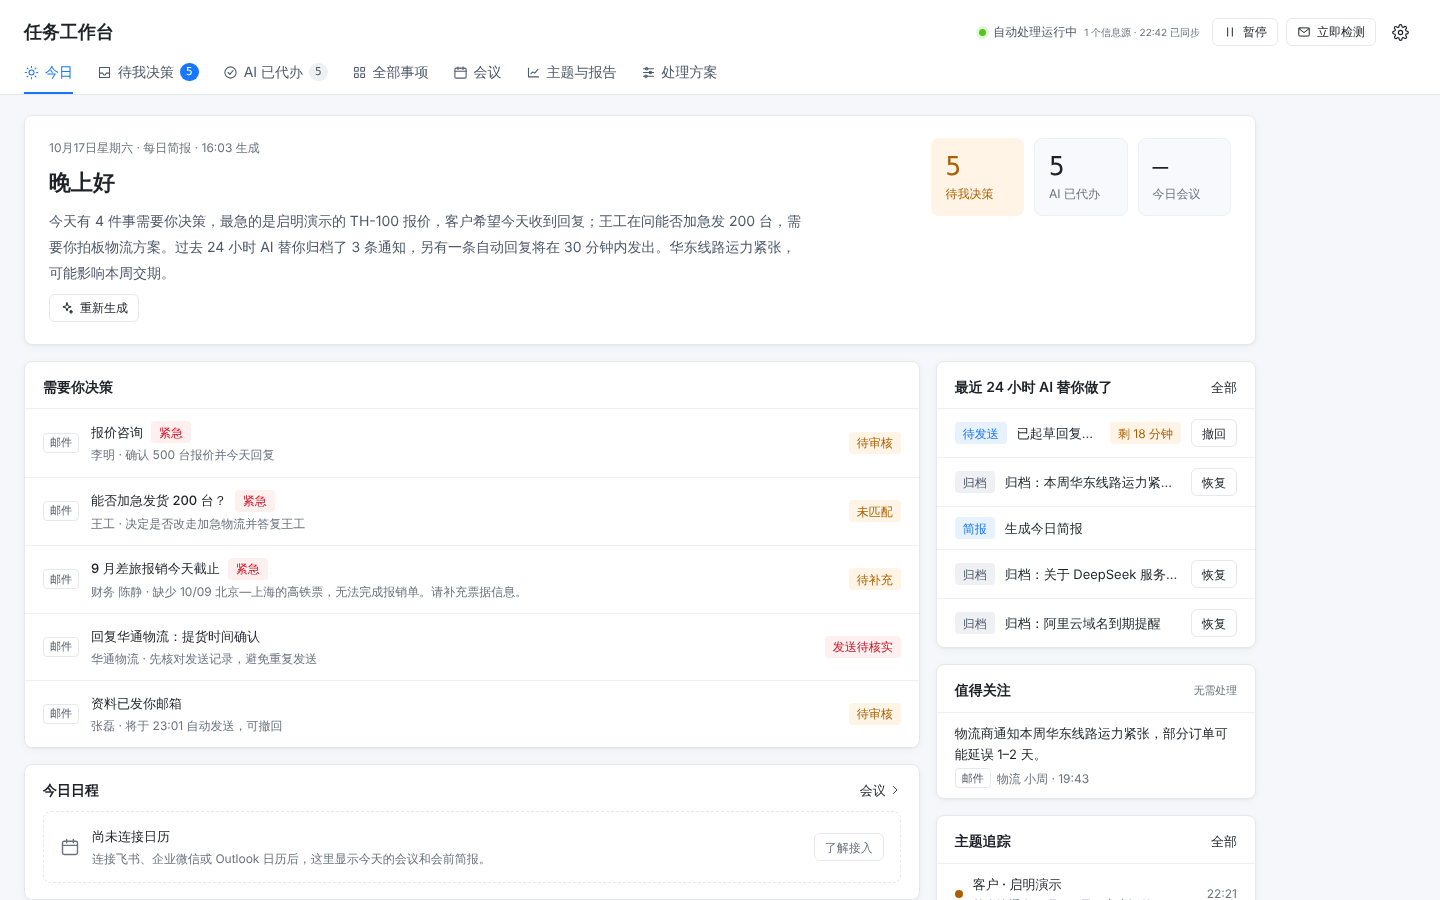
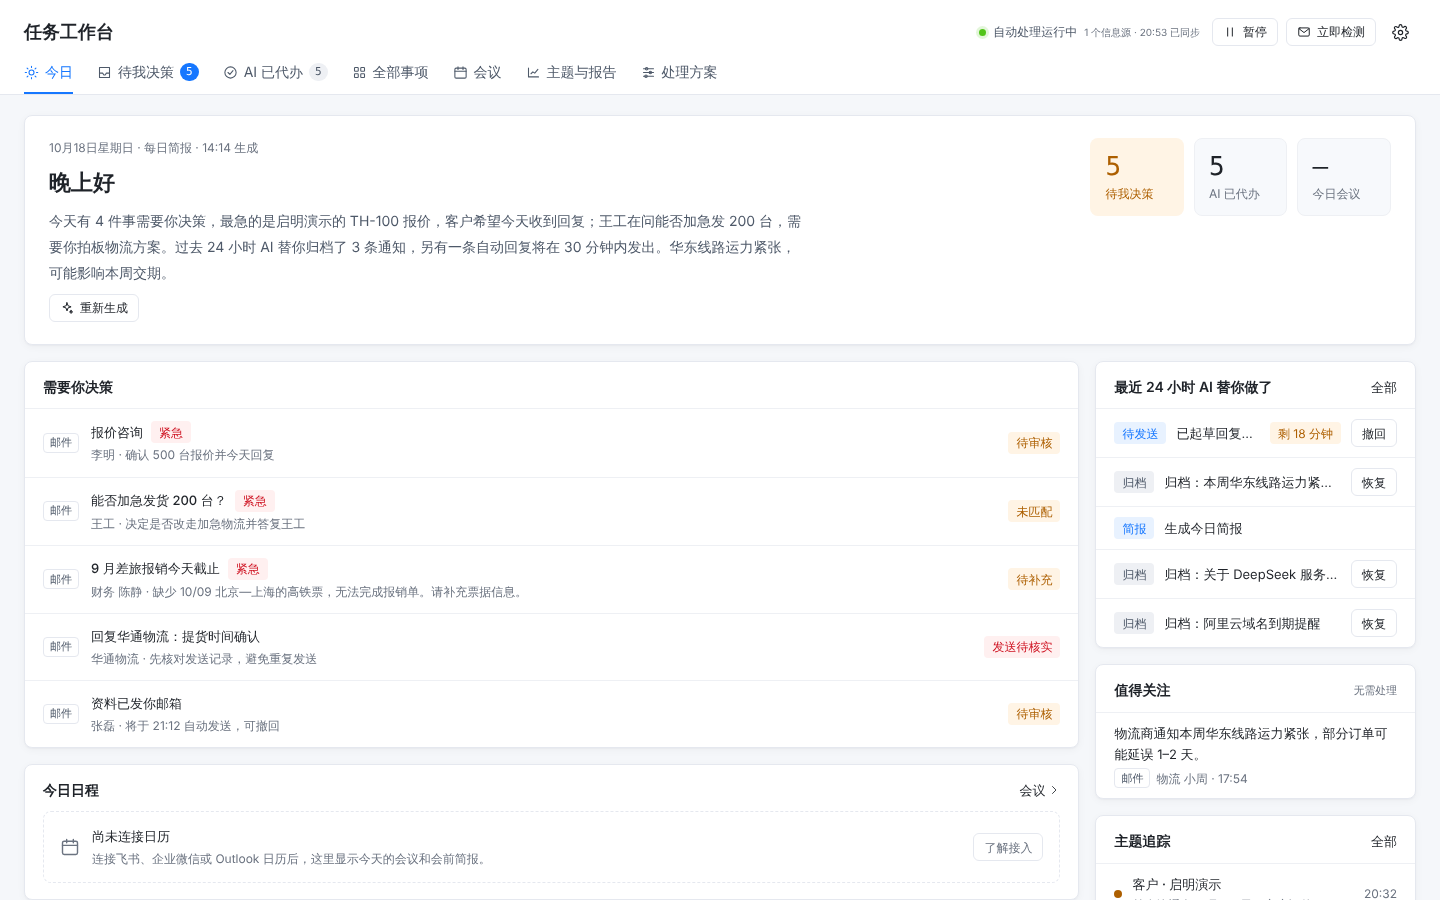
fix(ui): fill the window width and use white panes for topics and workflows
- Page content no longer stops at a fixed width on the left; it fills the
  window like the header and stays centred above 1920px.
- Topic and workflow navigation use a white surface; the workflow editor and
  its sticky footer are white instead of the grey page background.
- Refresh affected screenshots.

Claude-Session: https://claude.ai/code/session_017ze1se4mMhXQT4zLwqaEuS

diff --git a/client/styles.css b/client/styles.css
@@ -38,7 +38,7 @@ body[data-ds-dark-theme] .bkw, body[data-ds-dark-theme] .bkw-settings, body[data
 .bkw-mono { font-family: var(--mono); font-size: 12px; }
 .bkw-muted { color: var(--ink3); }
 .bkw-grow { flex: 1; }
-.bkw-pad { padding: 20px 24px 40px; max-width: 1280px; }
+.bkw-pad { padding: 20px 24px 40px; }
 
 /* Buttons */
 .bkw-btn { display: inline-flex; align-items: center; justify-content: center; gap: 6px; height: 32px; padding: 0 15px; border: 1px solid var(--line); border-radius: 6px; background: var(--surf); color: var(--ink); font-size: 13px; white-space: nowrap; text-decoration: none; transition: color .15s, border-color .15s, background .15s; }
@@ -147,7 +147,7 @@ body[data-ds-dark-theme] .bkw, body[data-ds-dark-theme] .bkw-settings, body[data
 .bkw-chip:has(input:focus-visible) { outline: 2px solid var(--acc); outline-offset: 2px; }
 
 /* Today */
-.bkw-today { display: grid; gap: 16px; padding: 20px 24px 40px; max-width: 1280px; }
+.bkw-today { display: grid; gap: 16px; padding: 20px 24px 40px; }
 .bkw-hero { display: flex; gap: 28px; align-items: flex-start; flex-wrap: wrap; padding: 22px 24px; }
 .bkw-hero-text { flex: 999 1 460px; min-width: 0; display: grid; gap: 8px; }
 .bkw-hero h2 { font-size: 22px; font-weight: 600; }
@@ -187,7 +187,7 @@ body[data-ds-dark-theme] .bkw, body[data-ds-dark-theme] .bkw-settings, body[data
 .bkw-activity-main small { color: var(--ink3); font-size: 12px; overflow: hidden; text-overflow: ellipsis; white-space: nowrap; }
 .bkw-activity.undone .bkw-activity-title { color: var(--ink3); text-decoration: line-through; }
 .bkw-day { padding: 10px 18px 8px; font-size: 12px; font-weight: 500; color: var(--ink3); background: var(--surf2); }
-.bkw-split { display: flex; gap: 16px; align-items: flex-start; flex-wrap: wrap; padding: 20px 24px 40px; max-width: 1280px; }
+.bkw-split { display: flex; gap: 16px; align-items: flex-start; flex-wrap: wrap; padding: 20px 24px 40px; }
 .bkw-split-main { flex: 999 1 560px; min-width: 0; display: grid; gap: 14px; }
 .bkw-split-main .bkw-toolbar { margin: 0; }
 .bkw-split-side { flex: 1 1 300px; min-width: 0; display: grid; gap: 14px; justify-items: start; }
@@ -386,7 +386,7 @@ body[data-ds-dark-theme] .bkw-check-no { color: #1d1606; }
 .bkw-pipeline b { display: inline-flex; width: 18px; height: 18px; align-items: center; justify-content: center; border-radius: 50%; background: var(--line2); font: 600 11px var(--mono); }
 .bkw-pipeline span.on b { background: var(--acc); color: var(--accI); }
 .bkw-pipeline span.on { color: var(--acc); }
-.bkw-topic-nav { display: flex; flex-direction: column; gap: 12px; min-height: 0; overflow: auto; padding: 14px 10px; border-right: 1px solid var(--line); background: var(--bg); }
+.bkw-topic-nav { display: flex; flex-direction: column; gap: 12px; min-height: 0; overflow: auto; padding: 14px 10px; border-right: 1px solid var(--line); background: var(--surf); }
 .bkw-nav-group { display: grid; gap: 2px; }
 .bkw-nav-group h4 { padding: 4px 10px; font-size: 12px; font-weight: 500; color: var(--ink3); }
 .bkw-nav-item { display: flex; align-items: center; gap: 8px; width: 100%; min-height: 36px; padding: 6px 10px; border: 0; border-radius: 6px; background: none; text-align: left; color: var(--ink2); }
@@ -395,14 +395,15 @@ body[data-ds-dark-theme] .bkw-check-no { color: #1d1606; }
 .bkw-nav-item.tall > span { display: grid; gap: 2px; white-space: normal; }
 .bkw-nav-item.tall strong { font-weight: 500; color: var(--ink); overflow: hidden; text-overflow: ellipsis; white-space: nowrap; }
 .bkw-nav-item.tall small { font-size: 12px; color: var(--ink3); }
-.bkw-nav-item:hover { background: var(--surf); color: var(--ink); }
+.bkw-nav-item:hover { background: var(--surf2); color: var(--ink); }
 .bkw-nav-item.on { background: var(--accS); color: var(--acc); box-shadow: inset 3px 0 0 var(--acc); }
 .bkw-nav-item.on strong { color: var(--acc); }
 .bkw-nav-item.paused strong { color: var(--ink3); }
 .bkw-nav-add { display: flex; align-items: center; gap: 6px; padding: 6px 10px; border: 0; background: none; color: var(--acc); font-size: 12px; text-align: left; }
 .bkw-nav-add:not(:disabled):hover { text-decoration: underline; }
 .bkw-topic-main, .bkw-plan-main { min-width: 0; min-height: 0; overflow: auto; }
-.bkw-topic, .bkw-report-editor { display: grid; gap: 14px; padding: 20px 24px 40px; max-width: 1080px; }
+.bkw-plan-main { background: var(--surf); }
+.bkw-topic, .bkw-report-editor { display: grid; gap: 14px; padding: 20px 24px 40px; }
 .bkw-topic-head { display: flex; align-items: flex-start; justify-content: space-between; gap: 16px; flex-wrap: wrap; }
 .bkw-topic-head > div:first-child { flex: 1; min-width: 240px; display: grid; gap: 6px; }
 .bkw-topic-head h2 { font-size: 20px; font-weight: 600; }
@@ -421,7 +422,7 @@ body[data-ds-dark-theme] .bkw-check-no { color: #1d1606; }
 .bkw .bkw-title-input:focus { padding-left: 10px; }
 .bkw .bkw-report-body textarea { border: 0; box-shadow: none; padding: 18px 20px; min-height: 420px; font-size: 14px; line-height: 1.8; }
 
-.bkw-plan-form { display: grid; gap: 0; max-width: 1040px; padding: 0 24px; }
+.bkw-plan-form { display: grid; gap: 0; padding: 0 24px; }
 .bkw-plan-head { display: flex; align-items: flex-start; justify-content: space-between; gap: 16px; padding: 20px 0 14px; }
 .bkw-plan-head h2 { font-size: 18px; font-weight: 600; margin-bottom: 4px; }
 .bkw-plan-head p { line-height: 1.7; max-width: 720px; }
@@ -465,7 +466,7 @@ body[data-ds-dark-theme] .bkw-check-no { color: #1d1606; }
 .bkw-capability { display: flex; gap: 8px; align-items: flex-start; padding: 8px 10px; border: 1px solid var(--line); border-radius: 6px; cursor: pointer; }
 .bkw-capability span { display: grid; min-width: 0; }
 .bkw-capability small { font-size: 12px; color: var(--ink3); overflow: hidden; text-overflow: ellipsis; display: -webkit-box; -webkit-line-clamp: 2; -webkit-box-orient: vertical; }
-.bkw-plan-foot { position: sticky; bottom: 0; display: flex; align-items: center; gap: 10px; padding: 12px 0; border-top: 1px solid var(--line); background: var(--bg); }
+.bkw-plan-foot { position: sticky; bottom: 0; display: flex; align-items: center; gap: 10px; padding: 12px 0; border-top: 1px solid var(--line); background: var(--surf); }
 
 /* Dialogs */
 .bkw-modal-overlay { position: fixed; inset: 0; z-index: 1000; display: flex; align-items: center; justify-content: center; padding: 20px; background: rgba(15, 18, 24, .45); }
@@ -562,3 +563,6 @@ body[data-ds-dark-theme] .bkw-check-no { color: #1d1606; }
   .bkw-set-row { flex-wrap: wrap; }
   .bkw-todo-reminder { bottom: 16px; right: 16px; }
 }
+
+/* Page content fills the window and stays centred on very wide screens, aligned with the full-width header. */
+.bkw-pad, .bkw-today, .bkw-split, .bkw-topic, .bkw-report-editor, .bkw-plan-form { box-sizing: border-box; width: 100%; max-width: 1920px; margin-inline: auto; }
